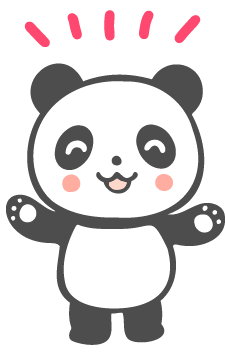
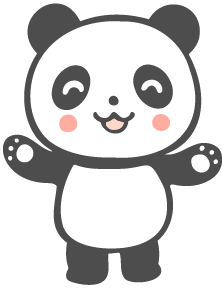
状態に応じてパンダのイラストとセリフが変わるようにした

diff --git a/src/components/Instruction.tsx b/src/components/Instruction.tsx
@@ -1,10 +1,28 @@
+import { useCallback } from 'react';
 import Image from 'next/image';
+import { CONDITION, Condition, MODE, Mode } from '../pages/stages/[stage]';
 
-const Instruction = () => {
-  return (
-    <div className="flex justify-between w-80 mt-3">
+type Props = {
+  condition: Condition;
+  mode: Mode;
+};
+
+const Instruction = ({ condition, mode }: Props) => {
+  const imgSrc = useCallback((condition: Condition) => {
+    switch (condition) {
+      case CONDITION.Normal:
+        return '/pandas/panda_default.png';
+      case CONDITION.Success:
+        return '/pandas/panda_happy_2.png';
+      case CONDITION.Failure:
+        return '/pandas/panda_power.png';
+    }
+  }, []);
+
+  const imageOnCondition = useCallback((condition: Condition) => {
+    return (
       <Image
-        src="/pandas/panda_default.png"
+        src={imgSrc(condition)}
         objectFit="contain"
         width={75}
         height={88}
@@ -12,17 +30,51 @@ const Instruction = () => {
         onContextMenu={(e) => e.preventDefault()}
         onMouseDown={(e) => e.preventDefault()}
       />
+    );
+  }, []);
+
+  const messageOnCondition = useCallback((condition: Condition) => {
+    switch (condition) {
+      case CONDITION.Success:
+        return (
+          <div className="flex items-center text-ok font-bold">
+            <span className="text-2xl mr-1.5">○</span>いいね！ その調子だよ！
+          </div>
+        );
+      case CONDITION.Failure:
+        return (
+          <div className="flex items-center text-ng font-bold">
+            <span className="text-xl mr-2">❌</span>失敗は成功のもと！
+          </div>
+        );
+      default:
+        break;
+    }
+  }, []);
+
+  const messageOnMode = useCallback((mode: Mode) => {
+    switch (mode) {
+      case MODE.Remember:
+        return <div className="text-black">黄色の部分をおぼえよう！</div>;
+      case MODE.Type:
+        return (
+          <div className="text-black">
+            黄色の四角に入る数字を
+            <br />
+            入力してね！
+          </div>
+        );
+      default:
+        break;
+    }
+  }, []);
+
+  return (
+    <div className="flex justify-between w-80 mt-3">
+      {imageOnCondition(condition)}
       <div className="flex flex-col justify-center bg-white rounded-lg py-1 px-4 w-60">
-        {/*<div className="flex items-center text-ok font-bold">*/}
-        {/*  <span className="text-2xl mr-1.5">○</span>*/}
-        {/*  いいね！ その調子だよ！*/}
-        {/*</div>*/}
-        {/*<div className="text-black">*/}
-        {/*  黄色の四角に入る数字を*/}
-        {/*  <br />*/}
-        {/*  入力してね！*/}
-        {/*</div>*/}
-        <div className="text-black">黄色の部分をおぼえよう！</div>
+        {messageOnCondition(condition)}
+        {messageOnMode(mode)}
       </div>
     </div>
   );

diff --git a/src/pages/stages/[stage].tsx b/src/pages/stages/[stage].tsx
@@ -417,7 +417,7 @@ const Stage = ({ stageNumber }: Props) => {
         <StageDescription stageNumber={stageNumber} />
         <Score score={score} />
         <Wordplays mode={mode} tiles={wordplayTiles} />
-        <Instruction />
+        <Instruction condition={condition} mode={mode} />
         <Button handleOnClick={handleOnClick} />
         <button onClick={toggleModal}>button</button>
       </div>
